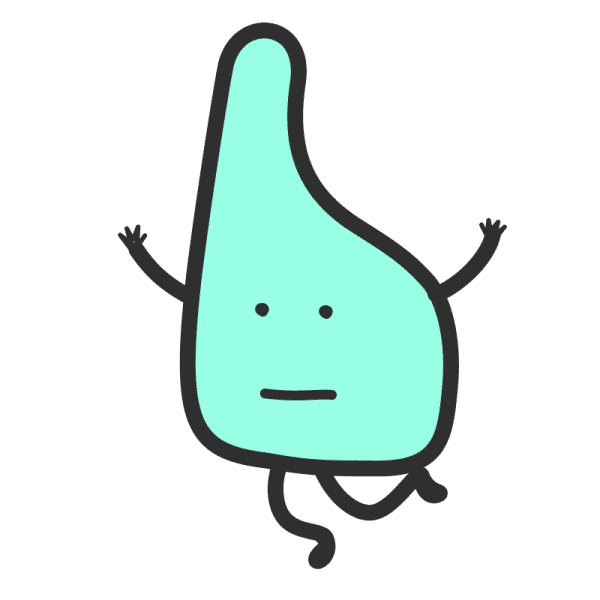
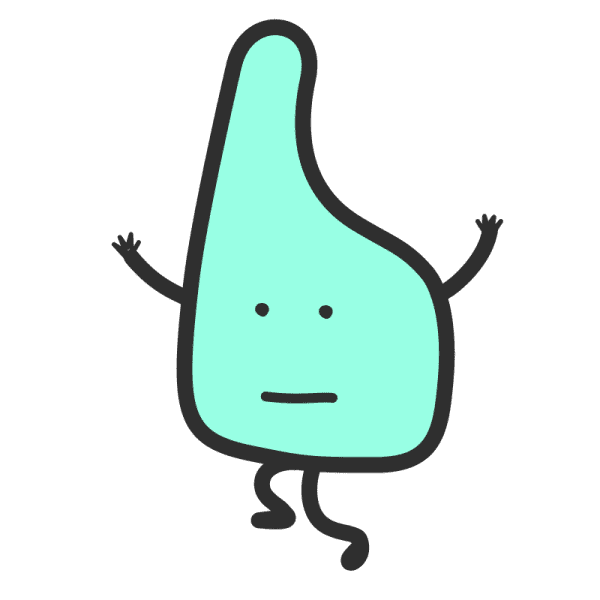
Creatures

diff --git a/components/Creature.js b/components/Creature.js
@@ -3,10 +3,10 @@ import Head from 'next/head'
 import classnames from 'classnames'
 import PNGSequencePlayer from './PNGSequencePlayer'
 import { GlobalTicker } from './Ticker'
-import { PERFORMANCE_PHASES } from '../constants'
+import { PERFORMANCE_PHASES, CREATURES } from '../constants'
 
 const CREATURE_TAP_STOP_TIME = 10
-const NO_LOOPING_FRAMES = 8
+const NO_LOOPING_FRAMES = 6
 
 const getInitialX = () => -100
 const getInitialY = () => window.innerHeight ? (window.innerHeight / 2 - 50) : 250
@@ -172,6 +172,8 @@ export default class CreatureComponent extends React.Component {
     const { isActive, creatureId, gardenConfig } = this.props
     const { tapped, nextGarden } = this.state
     const showCreature = isActive
+    const framesFolder = CREATURES[creatureId].folder
+    const creatureClassName = CREATURES[creatureId].className
     return (
       <div
         ref={(e) => {this.onRef(e)}}
@@ -181,10 +183,11 @@ export default class CreatureComponent extends React.Component {
       >
           {creatureId}
           <PNGSequencePlayer
-            loopImages={[...Array(NO_LOOPING_FRAMES).keys()].map(k => `/static/images/creature1/${k}.png`)}
+            loopImages={[...Array(NO_LOOPING_FRAMES).keys()].map(k => `/static/images/creatures/${framesFolder}/${k}.png`)}
             isPlaying={isActive}
             loop={true}
-            className="creature-1"
+            className={creatureClassName}
+            imageClassName="reversed-x"
             inViewport={true}
           />
           { /*gardenConfig && tapped &&

diff --git a/constants.js b/constants.js
@@ -15,10 +15,37 @@ export const GARDENS = {
       name: "gamma"
     }
 }
-  
-export const CREATURES = {
 
-}  
+export const CREATURES = {
+  creature1: {
+    folder: 1,
+    className: "creature-1"
+  },
+  creature2: {
+    folder: 2,
+    className: "creature-2"
+  },
+  creature3: {
+    folder: 3,
+    className: "creature-3"
+  },
+  creature4: {
+    folder: 4,
+    className: "creature-4"
+  },
+  creature5: {
+    folder: 5,
+    className: "creature-5"
+  },
+  creature6: {
+    folder: 6,
+    className: "creature-6"
+  },
+  creature7: {
+    folder: 7,
+    className: "creature-7"
+  }
+}
 
 export const PERFORMANCE_PHASES = {
     'CENTRALIZED': 'centralized',

diff --git a/static/styles/main.less b/static/styles/main.less
@@ -118,6 +118,7 @@ h1.garden-heading {
   position: fixed;
   top: 0;
   left: 0;
+  visibility: hidden;
 }
 
 .decentralized-animation {
@@ -135,4 +136,36 @@ h1.garden-heading {
 .plant-container {
   position: absolute;
   transform: translateX(-50%) translateY(-50%);
+}
+
+.reversed-x {
+  transform: scale(-1, 1);
+}
+
+.creature-1 {
+  transform: scale(2, 2);
+}
+
+.creature-2 {
+  transform: scale(1.1, 1.1);
+}
+
+.creature-3 {
+  transform: scale(0.7, 0.7);
+}
+
+.creature-4 {
+  transform: scale(1.5, 1.5);
+}
+
+.creature-5 {
+  transform: scale(2.2, 2.2);
+}
+
+.creature-6 {
+  transform: scale(1, 1);
+}
+
+.creature-7 {
+  transform: scale(1.4, 1.4);
 }

diff --git a/components/GardenAnimation.js b/components/GardenAnimation.js
@@ -79,7 +79,8 @@ export default class DecentralizedAnimation extends React.Component {
   async generateLayout() {
     let plants, positions
 
-    if (!localStorage.getItem('plants') || !localStorage.getItem('positions')) {
+    if (true) {
+    // if (!localStorage.getItem('plants') || !localStorage.getItem('positions')) {
       const noPlants = this.rand(3, 5)
       plants = this.pickN(noPlants, Object.keys(PLANTS))
       positions = this.pickN(noPlants, POSITIONS)
